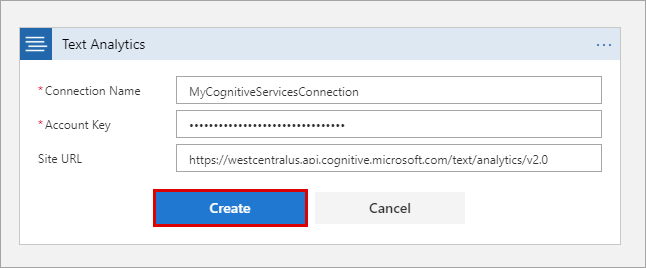
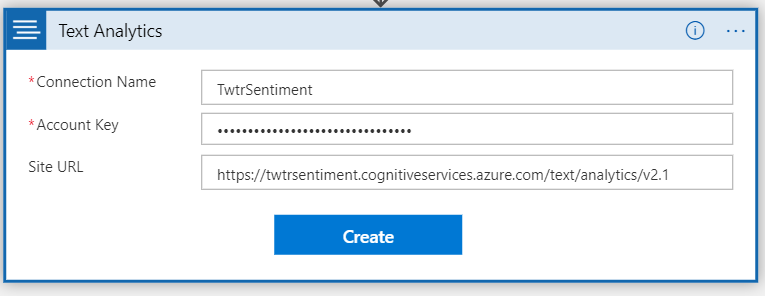
Updating serverless workshop

Changed region(s): [[0.0, 0.0, 1.0, 1.0], [0.2167, 0.6866, 0.6502, 0.8657], [0.0619, 0.3284, 0.2167, 0.3582]]

diff --git a/serverless/readme.md b/serverless/readme.md
@@ -16,7 +16,7 @@ In this tutorial, you learn how to:
 > * Add content moderation to the logic app.
 > * Translate text in the logic app
 > * Connect the logic app to the function.
-> * Send an email based on the response from the function.
+> * Send an email & retweet based on the response from the function.
 
 ## Prerequisites
 
@@ -30,23 +30,20 @@ If you haven't already done so, complete these steps now to create your function
 The Cognitive Services APIs are available in Azure as individual resources. Use the Text Analytics API to detect the sentiment of the tweets being monitored.
 
 1. Sign in to the [Azure portal](https://portal.azure.com/).
-
-2. Click **Create a resource** in the upper left-hand corner of the Azure portal.
-
-3. Click **AI + Machine Learning** > **Text Analytics**. Then, use the settings as specified in the table to create the resource.
-
-    ![Create Cognitive resource page](media/01-create-text-analytics.png)
-
+1. Click **Create a resource** in the upper left-hand corner of the Azure portal.
+1. In the Search field, type in "Text Analytics" and choose "Text Analytics"  
+![Search for Text Translator](media/sentiment-1.png)
+1. Click the **Create** button and fill out the resource creation form
     | Setting      |  Suggested value   | Description                                        |
     | --- | --- | --- |
     | **Name** | TwtrSentiment | Choose a unique account name. |
     | **Location** | South Central US | Use the location nearest you. |
     | **Pricing tier** | F0 | Start with the lowest tier. If you run out of calls, scale to a higher tier.|
     | **Resource group** | ServerlessWkrshp | Use the same resource group for all services in this tutorial.|
-
-4. Click **Create** to create your resource. 
-
-
+1. Click **Create** to create your resource.  
+![Search for Text Translator](media/sentiment-2.png)
+1. From your Resource Group, go to your Sentiment Analysis resource and make note of the **Key1** and **Endpoint** value.
+![Search for Text Translator](media/sentiment-3.png)
 
 ## Create a Microsoft Translator resource
 1. Click **Create a resource** in the upper left-hand corner of the Azure portal.
@@ -59,9 +56,10 @@ The Cognitive Services APIs are available in Azure as individual resources. Use 
     | **Subscription** | Your Subscription | The subscription associated with your account |
     | **Pricing tier** | F0 | Start with the lowest tier. If you run out of calls, scale to a higher tier.|
     | **Resource group** | ServerlessWkrshp | Use the same resource group for all services in this tutorial.|
-1. Click **Create**
+1. Click **Create** to create your resource.  
 ![Search for Text Translator](media/text-translator-2.png)
-
+1. From your Resource Group, go to your Translator resource and make note of the **Key1** value.
+![Search for Text Translator](media/text-translator-3.png)
 
 
 ## Create a Content Moderation resource
@@ -76,9 +74,10 @@ The Cognitive Services APIs are available in Azure as individual resources. Use 
     | **Location** | South Central US | Use the location nearest you. |
     | **Pricing tier** | S0 | S0 allows for up to 10 calls per second|
     | **Resource group** | ServerlessWkrshp | Use the same resource group for all services in this tutorial.|
-1. Click **Create**
+1. Click **Create** to create your resource.  
 ![Search for Text Translator](media/content-moderator-2.png)
-
+1. From your Resource Group, go to your Content Moderator resource and make note of the **Key1** value.
+![Search for Text Translator](media/content-moderator-3.png)
 
 
 
@@ -102,7 +101,7 @@ Functions provides a great way to offload processing tasks in a logic apps workf
     | **Runtime Stack** | .Net Core | Choose .Net Core for this tutorial.|
     | **Storage Account** | Create New | Create a new storage account for this function|
 
-1. Click **Create**
+1. Click **Create** to create your resource.  
 ![Search for Text Translator](media/function-app-2.png)]
 
 ## Create an HTTP triggered function  
@@ -136,7 +135,7 @@ Functions provides a great way to offload processing tasks in a logic apps workf
     
         double score = Convert.ToDouble(requestBody);
     
-        if(score < .3)
+        if(score < .5)
         {
             category = "RED";
         }
@@ -172,7 +171,7 @@ Now you have a function that categorizes sentiment scores. Next, you create a lo
     | ----------------- | ------------ | ------------- |
     | **Name** | TweetSentiment | Choose an appropriate name for your app. |
     | **Resource group** | ServerlessWkrshp | Choose the same existing resource group as before. |
-    | **Location** | East US | Choose a location close to you. |    
+    | **Location** | South Central US | Choose a location close to you. |    
 
 4. Once you have entered the proper settings values, click **Create** to create your logic app. 
 
@@ -202,21 +201,58 @@ First, create a connection to your Twitter account. The logic app polls for twee
 
 Now your app is connected to Twitter. Next, you connect to text analytics to detect the sentiment of collected tweets.
 
-## Add sentiment detection
+## Initialize and Set Variables
+1. Click **New Step**, and then **Add an action**.
+1. In **Choose an action**, type **Variables**, and then click the **Initialize Variable** action.
+    ![New Step, and then Add an action](media/variables-1.png)
+1. Set the **Name** and **Type** to the appropriate values, leave **Value** blank
+    | Setting      |  Suggested value   | Description                                        |
+    | ----------------- | ------------ | ------------- |
+    | **Name** | tweet_text | The variable name to reference later. |
+    | **Type** | String | The variable Type. |
 
 1. Click **New Step**, and then **Add an action**.
+1. In **Choose an action**, type **Variables**, and then click the **Initialize Variable** action.
+    ![New Step, and then Add an action](media/variables-1.png)
+1. Set the **Name** and **Type** to the appropriate values, leave **Value** blank
+    | Setting      |  Suggested value   | Description                                        |
+    | ----------------- | ------------ | ------------- |
+    | **Name** | translated_text | The variable name to reference later. |
+    | **Type** | String | The variable Type. |
+    ![New Step, and then Add an action](media/variables-3.png)
+1. Click **New Step**, and then **Add an action**.
+1. In **Choose an action**, type **Variables**, and then click the **Set Variable** action.
+    ![New Step, and then Add an action](media/variables-4.png)
+1. Set the **Name** to *tweet_text*, Click on the **Value** textfield and choose *Tweet Text* rom the **Dynamic Content** pop-up.
+    ![New Step, and then Add an action](media/variables-2.png)
 
-2. In **Choose an action**, type **Text Analytics**, and then click the **Detect sentiment** action.
-    
-    ![New Step, and then Add an action](media/11-detect-sentiment.png)
+## Detect Tweet Language
+1. Click **New Step**, and then **Add an action**.
+1. In **Choose an action**, type **Translator**, and then click the **Detect Langauge** action.
+    ![New Step, and then Add an action](media/detect-language-1.png)
+1. Enter *TwtrTranslator* for **Connection Name** and the value of **Key1** of your translator resource, then hit **Create** to create the API connection to your resource.
+    ![New Step, and then Add an action](media/detect-language-2.png)
+1. Click inside of the **Text** field, and choose **tweet_text** from the **Dynamic Content** pop-up.
+    ![New Step, and then Add an action](media/detect-language-3.png)
 
-3. Type a connection name such as `MyCognitiveServicesConnection`, paste the key for your Cognitive Services API and the Cognitive Services endpoint you set aside in a text editor, and click **Create**.
-
+## Detect Sentiment
+1. Click **New Step**, and then **Add an action**.
+1. In **Choose an action**, type **Text Analytics**, and then click the **Detect sentiment (preview)** action.
+       ![New Step, and then Add an action](media/11-detect-sentiment.png)
+1. Type a connection name such as `TwtrSentiment`, paste the key for your Cognitive Services API and the Cognitive Services endpoint you set aside in a text editor, and click **Create**.
     ![New Step, and then Add an action](media/12-connection-settings.png)
+1. Click in the **Add new parameter** field and choose *Text*
+    ![New Step, and then Add an action](media/sentiment-4.png)
+1. Click in the **Text** field and choose *tweet_text* from the  **Dynamic Content** pop-up.
+    ![New Step, and then Add an action](media/sentiment-5.png)
+1. Click in the **Add new parameter** field and choose *Language*
+    ![New Step, and then Add an action](media/sentiment-6.png)
+1. Click in the **Language** field, scroll down and choose *Enter custom value*.
+    ![New Step, and then Add an action](media/sentiment-7.png)
+1. Next, choose **Language Code** from the **Dynamic Content** pop-up.
+Next, enter **tweet_text** in the text box and then click on **New Step**.
+    ![New Step, and then Add an action](media/sentiment-8.png)
 
-4. Next, enter **Tweet Text** in the text box and then click on **New Step**.
-
-    ![Define text to analyze](media/13-analyze-tweet-text.png)
 
 Now that sentiment detection is configured, you can add a connection to your function that consumes the sentiment score output.
 
@@ -240,9 +276,10 @@ Now that sentiment detection is configured, you can add a connection to your fun
 
 Now, your function is triggered when a sentiment score is sent from the logic app. A color-coded category is returned to the logic app by the function. Next, you add an email notification that is sent when a sentiment value of **RED** is returned from the function. 
 
-## Add email notifications
 
-The last part of the workflow is to trigger an email when the sentiment is scored as _RED_. This topic uses an Outlook.com connector. You can perform similar steps to use a Gmail or Office 365 Outlook connector.   
+## Translate tweet
+
+The last part of the workflow is to trigger an email when the sentiment is scored as _RED_ and post a tweet when the sentiment is scored as _GREEN_. This topic uses an Outlook.com connector. You can perform similar steps to use a Gmail or Office 365 Outlook connector. We will also translate the tweet to English when emailing and add a profanity filter when tweeting. 
 
 1. In the Logic Apps Designer, click **New step** > **Add a condition**. 
 
@@ -252,37 +289,90 @@ The last part of the workflow is to trigger an email when the sentiment is score
 
     ![Choose an action for the condition.](media/19-condition-settings.png)    
 
-3. In **IF TRUE**, click **Add an action**, search for `outlook.com`, click **Send an email**, and sign in to your Outlook.com account.
+3. In **IF TRUE**, click **Add an action**, search for `Condition` and click on the **Condition** action.
+    ![Choose an action for the condition.](media/condition-1.png)    
+1. In the **Choose a value** field, select **Language Code** from the **Dynamic Content** pop-up. 
+    ![Choose an action for the condition.](media/translate-1.png)
+1. In nested **IF TRUE**, click **Add an action**, search for `Translate` and click on the **Translate text (preview)** action. 
+    ![Choose an action for the condition.](media/translate-2.png)
+1. Set the **Target Language** to *English* and the **Text** field to *tweet_text* from the **Dynamic Content** pop-up.
+    ![Choose an action for the condition.](media/translate-3.png)
+1.  Click **Add an action**, search for `Variables` and click on the **Set Variable** action.
+    ![Choose an action for the condition.](media/translate-4.png)
+1. Set the **Name** to *translated_tweet*, Click on the **Value** textfield and choose *Translated Text* rom the **Dynamic Content** pop-up.
+    ![Choose an action for the condition.](media/translate-5.png)
 
-    ![Configure the email for the send an email action.](media/20-add-outlook.png)
+## Email Tweet
+1. Click the **Add an action** in the _PARENT_ conditional loop
+    ![Choose an action for the condition.](media/condition-2.png)
+1. Search for *Outlook* and click on **Office 365 Outlook**, then **Send an Email** 
+    ![Choose an action for the condition.](media/email-1.png)
+1. Click on **Sign In** and proceed to sign in to create a connector using your Work/School account. 
+1. Add yourself to the **To** line
+1. Set the **Subject** to *Negative #hookem  Tweet by:* followed by the *Tweeted by* value from the **Dynhamic Content** pop-up.
+    ![Choose an action for the condition.](media/email-2.png)
+1. In the **Body**, add the following content from the **Dynamic Content** pop-up:
+    - translated_tweet
+    - tweet_text
+    - Language Name
+    - Location
+    - Created
 
-    > [!NOTE]
-    > If you don't have an Outlook.com account, you can choose another connector, such as Gmail or Office 365 Outlook
+| Content      |  Source   |
+| ----------------- | ------------ |
+| **translated_tweet** | Variables |
+| **tweet_text** | Variables  |
+| **Language Name** | Detect Language |
+| **Location** | When a new tweet is posted |
+| **Created at** | When a new tweet is posted |
+*You may append strings in front of the value to make more sense (e.g. "Tweet: " in front of tweet_text)*  
+![Choose an action for the condition.](media/email-3.png)
 
-4. In the **Send an email** action, use the email settings as specified in the table. 
+## Retweet
+1. In the parent **IF FALSE** condition, click **Add an action**
+    ![Logic app execution status](media/retweet-1.png)
+1. Search for *profanity* and choose **Detect profanity and match against custom and shared blacklists (preview)**
+    ![Logic app execution status](media/retweet-2.png)
+1. Enter in the appropriate resource values
+Now that the workflow is complete, you can enable the logic app and see the function at work, then click **Create**.
 
-    ![Configure the email for the send an email action.](media/21-configure-email.png)
-    
-| Setting      |  Suggested value   | Description  |
-| ----------------- | ------------ | ------------- |
-| **To** | Type your email address | The email address that receives the notification. |
-| **Subject** | Negative tweet sentiment detected  | The subject line of the email notification.  |
-| **Body** | Tweet text, Location | Click the **Tweet text** and **Location** parameters. |
+    | Name      |  Description   |
+    | ----------------- | ------------ |
+    | **Connection Name** | The Name of your Content Moderator resource |
+    | **API Key** | Your Content Moderator API Key  |
+    | **Site URL** | The regional cognitive services URL (*South Cental US:* https://southcentralus.api.cognitive.microsoft.com, *West US:* https://westus.api.cognitive.microsoft.com) |
+![Logic app execution status](media/retweet-3.png)  
+4. Select *text/plain* for **Content Type**, click in the **Text Content** field and choose **See more** under **Variables** in the **Dynamic Content** pop-up.  
+![Logic app execution status](media/retweet-4.png)  
 
-1. Click **Save**.
+5. Finally, choose *tweet_text* from the **Dynamic Content** pop-up.
+![Logic app execution status](media/retweet-5.png)  
 
-Now that the workflow is complete, you can enable the logic app and see the function at work.
+6. Click **Add an action** under the profanity detector action, search for "condition" and choose the "Condition" action.
+![Logic app execution status](media/retweet-6.png)  
 
+7. In the **Condition** action, click in the **Chose a value** field and choose **Detected Profanity Terms** from the **Dynamic Content** pop-up.
+![Logic app execution status](media/retweet-7.png)  
+
+8. Set the **Choose a value** field to *null*
+![Logic app execution status](media/retweet-8.png) 
+
+9. In the child **IF TRUE** condition, select **Add an action**, search for **Twitter** and select **Post a Tweet**
+![Logic app execution status](media/retweet-9.png) 
+10. Click on the **Search or filter parameters...** field and choose **Tweet text**
+![Logic app execution status](media/retweet-10.png) 
+11. Click in the **Tweet Text** field and choose **tweet_text** from the **Dynamic Content** pop-up.
+![Logic app execution status](media/retweet-11.png) 
+12. Click **Save**.
 ## Test the workflow
 
 1. In the Logic App Designer, click **Run** to start the app.
 
 2. In the left column, click **Overview** to see the status of the logic app. 
  
-    ![Logic app execution status](media/22-execution-history.png)
+    ![Logic app execution status](media/22-execution-history.png)  
 
-3. (Optional) Click one of the runs to see details of the execution.
-
+3. (Optional) Click one of the runs to see details of the execution.  
 4. Go to your function, view the logs, and verify that sentiment values were received and processed.
  
     ![View function logs](media/sent.png)
@@ -320,6 +410,8 @@ In this tutorial, you learned how to:
 > * Create a function that categorizes tweet sentiment.
 > * Create a logic app that connects to Twitter.
 > * Add sentiment detection to the logic app. 
+> * Add language detection to the logic app.
+> * Add content moderation to the logic app.
+> * Translate text in the logic app
 > * Connect the logic app to the function.
-> * Send an email based on the response from the function.
-> * Post a tweet based on the response from the function.
+> * Send an email & retweet based on the response from the function.
